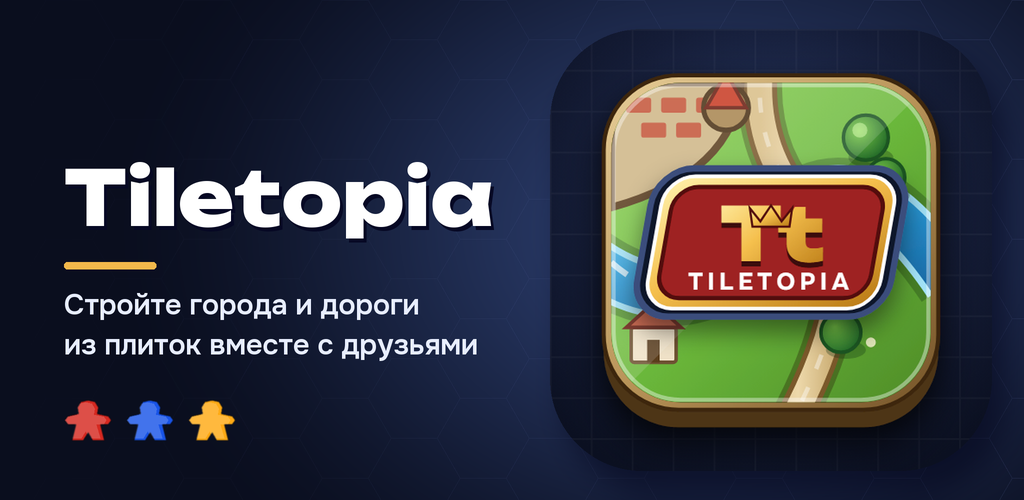
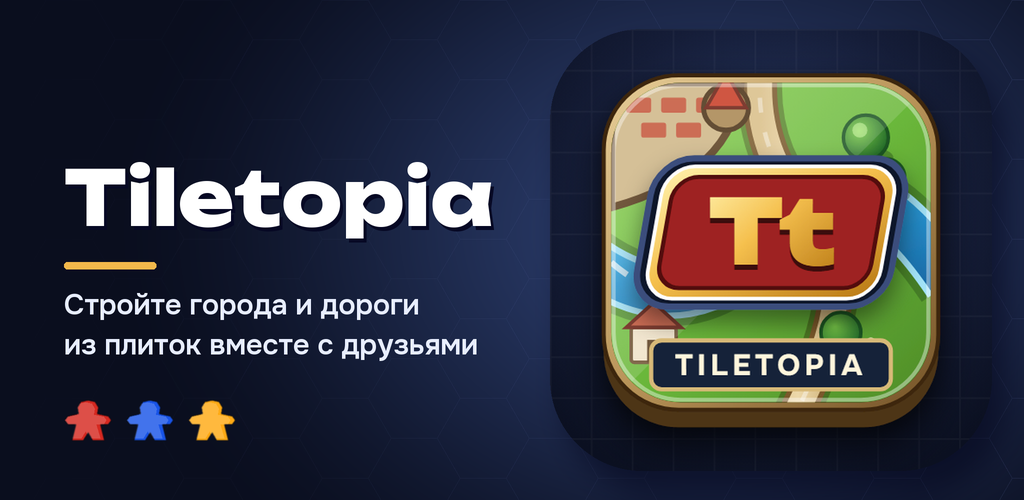
fix(brand): simplify the monogram and align the wordmark

Changed region(s): [[0.625, 0.3, 0.9062, 0.81]]

diff --git a/release-notes.md b/release-notes.md
@@ -1,1 +1,1 @@
-- Вернули классическую зелёную иконку Tiletopia с красной эмблемой. Плитка и надпись стали крупнее, чтобы лучше читаться на экране телефона.
+- Вернули классическую зелёную иконку Tiletopia. Плитка стала крупнее, а название читается отдельной строкой внизу.
